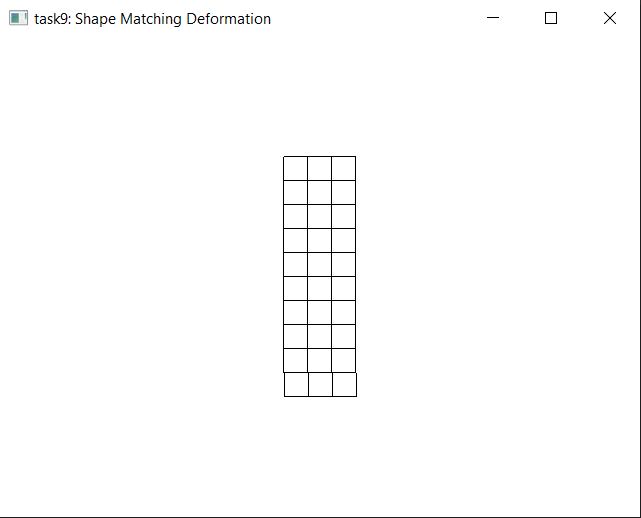
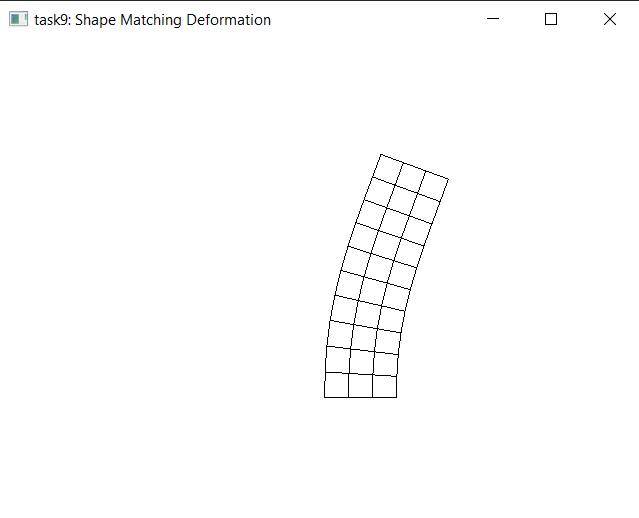
task9 finished

diff --git a/task9/main.cpp b/task9/main.cpp
@@ -123,31 +123,42 @@ int main()
         // write some code below to rigidly transform the points in the rest shape (`aq`) such that the
         // weighted sum of squared distances against the points in the tentative shape (`ap`) is minimized (`am` is the weight).
 
-        //calculate R ???
-        Eigen::Matrix2f R = Eigen::Matrix2f::Zero();
+        //Initialize transform vectors and BA Matrix
+        Eigen::Vector2f t_0 = Eigen::Vector2f::Zero();
+        Eigen::Vector2f t_1 = Eigen::Vector2f::Zero();
+        Eigen::Matrix2f BA = Eigen::Matrix2f::Zero();
+        
 
         // Calculate sum of mass points
         float m_sum = am[0] + am[1] + am[2] + am[3];
 
-        // Calculate t_opt -> (am*ap)/m_sum - R * (am*aq)/m_sum
-        Eigen::Vector2f t_opt[4] = {
-            (am[0] * ap[0]) / m_sum - R * ((am[0] * aq[0]) / m_sum) ,
-            (am[1] * ap[1]) / m_sum - R * ((am[1] * aq[1]) / m_sum) ,
-            (am[2] * ap[2]) / m_sum - R * ((am[2] * aq[2]) / m_sum) ,
-            (am[3] * ap[3]) / m_sum - R * ((am[3] * aq[3]) / m_sum) };
+        // Calculate transform vectors
+        for (auto i = 0; i < 4; i++)
+        {
+            t_0 += (am[i] * ap[i]) / m_sum;
+            t_1 += (am[i] * aq[i]) / m_sum;
+        }
+
+        // Calculate BA^t matrix
+        for (auto i = 0; i < 4; i++)
+        {
+            BA += am[i] * (ap[i] - t_0) * (aq[i] - t_1).transpose();
+        }
 
         // Calculate R_opt with JacobiSVD
-        Eigen::JacobiSVD< Eigen::MatrixXf> svd(R, Eigen::ComputeFullU | Eigen::ComputeFullV);
+        Eigen::JacobiSVD< Eigen::MatrixXf> svd(BA, Eigen::ComputeFullU | Eigen::ComputeFullV);
         Eigen::MatrixXf U = svd.matrixU();
         Eigen::MatrixXf V = svd.matrixV();
         Eigen::Matrix2f R_opt = U * V.transpose();
+        Eigen::Vector2f t_opt = t_0 - R_opt * t_1;
 
         // Update position -> x_i = R_opt * Xi + t_opt;
-        // but ap[] is constant and can't be updated.. so maybe update aXYt??
-           //ap[0] = R_opt * aq[0] + t_opt[0];
-           //ap[1] = R_opt * aq[1] + t_opt[1];
-           //ap[2] = R_opt * aq[2] + t_opt[2];
-           //ap[3] = R_opt * aq[3] + t_opt[3];
+        for (auto i = 0; i < 4; i++)
+        {
+            Eigen::Vector2f update = R_opt * aq[i] + t_opt;
+            aXYt[aQuad[iq * 4 + i] * 2 + 0] = update[0];
+            aXYt[aQuad[iq * 4 + i] * 2 + 1] = update[1];
+        }
         
         // no edits further down
       }
